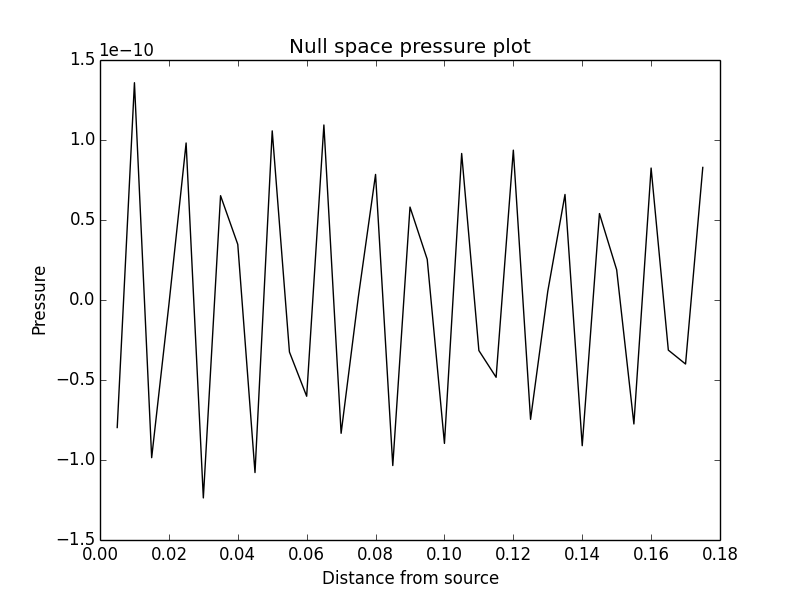
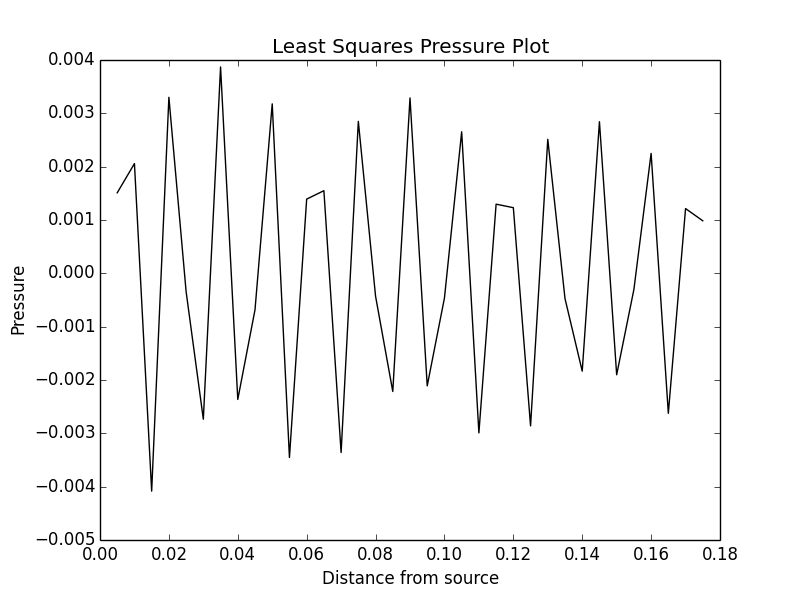
Code seems to be fixed, but the results are strange, need to confirm with changxi

diff --git a/Simulations/Plane Wave Confirmation/reduced Plane Wave solve.py b/Simulations/Plane Wave Confirmation/reduced Plane Wave solve.py
@@ -6,9 +6,9 @@ leastSqPlane = __import__("Plane Wave Least Squares")
 
 #define constants
 NUM_PORTS = 11
-NUM_DETECTORS = 20
+NUM_DETECTORS = 35
 DETECTOR_MID = NUM_DETECTORS/2
-NUM_ROWS = 20
+NUM_ROWS = 35
 
 PORT_SPACING = 0.0011375
 DETECTOR_SPACING = 0.0005
@@ -32,24 +32,28 @@ class reducedLeastSquaresWave(leastSqPlane.leastSquaresWave):
 		self.constructRHS()
 		self.reduceMatrix()
 
-		self.leastSqResu =  np.linalg.lstsq(self.reducedMatrix, self.rhs, rcond = 1e-20)[0]
+		self.leastSqResu =  np.linalg.lstsq(self.reducedMatrix, self.rhs, rcond = 1e-4)[0]
 		self.getSVD(freq)
+		# print self.diffMatrix
 		print "result is: \n", self.leastSqResu
 		print "SVD result is [0]: \n", self.resultSVDResu[0]
 		# print "SVD result is [1]: \n", self.resultSVDResu[1]
 
 		tempDetector = self.fullConstDict[0].keys()[0]
-		print "detector vals are: ", self.fullConstDict[0][tempDetector]
+		# print "detector vals are: ", self.fullConstDict[0][tempDetector]
 
 		# self.getfullConstDict(freq)
 		self.normalizeVals()
 		self.calcPressure()
 
-		print "storage array is: ", self.storArr
-		print self.nullPressure[0]
-		print self.svdPressure[0]
-		# self.graphDecay(self.nullPressure, "Least Squares Pressure Plot")
-		# self.graphDecay(self.svdPressure, "SVD Pressure Plot")
+		# print np.dot(self.diffMatrix,self.leastSqResu)
+		# print np.dot(self.diffMatrix, self.svdResu)
+
+		# print "storage array is: ", self.storArr
+		# print self.nullPressure[0]
+		# print self.svdPressure[0]
+		self.graphDecay(self.nullPressure, "Least Squares Pressure Plot")
+		self.graphDecay(self.svdPressure, "SVD Reduced Pressure Plot")
 
 	# def checkSolution(self):
 
@@ -72,7 +76,7 @@ class reducedLeastSquaresWave(leastSqPlane.leastSquaresWave):
 		self.reducedMatrix = []
 		self.storArr = []
 		for i in range(len(self.diffMatrix)):
-			tempArray = self.diffMatrix[i]
+			tempArray = self.diffMatrix[i][:]
 			# print "length of array was: ", len(tempArray)
 			self.storArr.append(tempArray[midpoint-1])
 			del tempArray[midpoint]
@@ -81,7 +85,7 @@ class reducedLeastSquaresWave(leastSqPlane.leastSquaresWave):
 		print "size of matrix is: ", len(self.reducedMatrix)
 
 	def nullSpace(self, eps = 1.5e-10):
-		u, s, vh = np.linalg.svd(self.diffMatrix)
+		u, s, vh = np.linalg.svd(self.reducedMatrix)
 		self.null_space = np.compress(s <=eps, vh, axis = 0)
 		return self.null_space.T
 

diff --git a/Simulations/Plane Wave Confirmation/Plane Wave LinAlg.py b/Simulations/Plane Wave Confirmation/Plane Wave LinAlg.py
@@ -133,7 +133,7 @@ class runCalculation:
 
 	#calculates the differences between detectors to form a matrix
 	def calculateDifferences(self, iterNum):
-		midPoint = len(self.detectorDict[iterNum])/2-1
+		midPoint = len(self.detectorDict[iterNum])/2
 		refDetector = self.detectorDict[iterNum][midPoint]
 		refList = self.constDict[refDetector]
 
@@ -142,10 +142,10 @@ class runCalculation:
 				# continue
 			tempConstList = self.constDict[detector]
 			tempResu = [i-j for i, j in zip(tempConstList, refList)]
-			print tempResu
-			self.diffMatrix.append(tempResu)
+			self.diffMatrix.append(tempResu[:])
 
 	#creates a dictionary from detectors to a list of distances from ports
+	#dictionary is: {detector: distance List}
 	def getDistanceDict(self):
 		self.detectDistDict = {}
 		for detector in self.detectorList:
